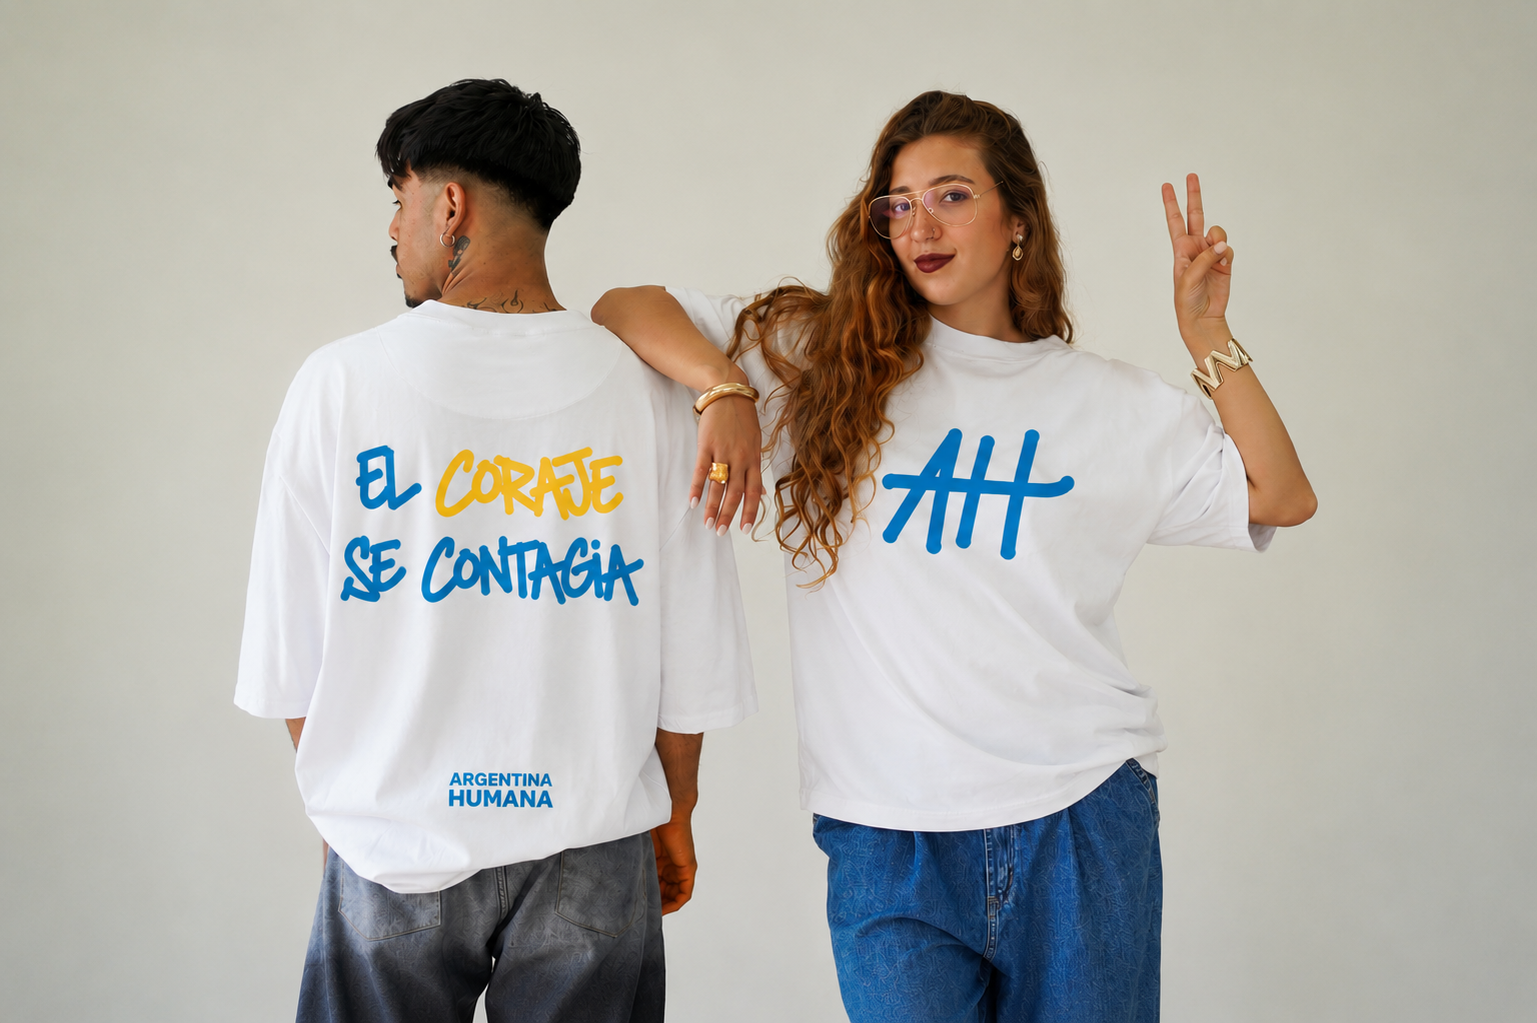
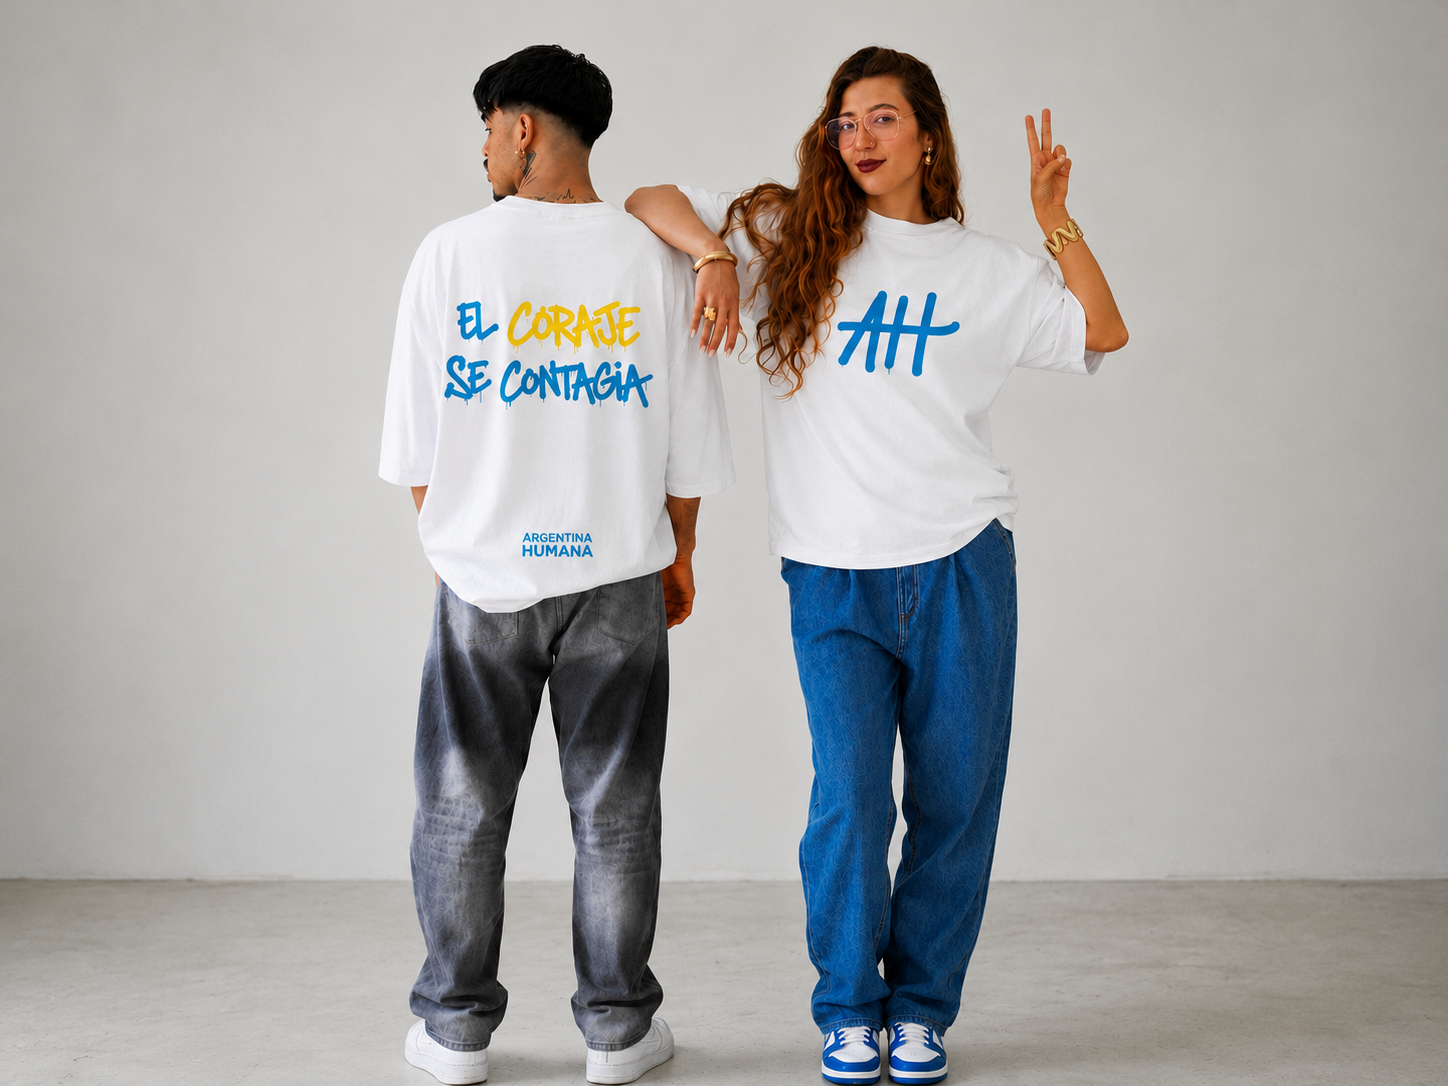
cambios portada y foto de tienda sobre remera AH

diff --git a/src/lib/supabase.ts b/src/lib/supabase.ts
@@ -184,7 +184,7 @@ export const FALLBACK_PRODUCTS: Product[] = [
     slug: 'aritos-alpaca-con-pasador-de-plata',
     price: 15000.00,
     old_price: null,
-    description: 'Arito de alpaca pañuelo de Madres y Abuelas. Símbolo de memoria y auténtico diseño tucumano. Llevá tu identidad con orgullo en Tuc-Humano.',
+    description: 'Aritos "Memoria"\n\nSímbolo de una lucha histórica, estos aritos presentan el emblemático pañuelo de Madres y Abuelas de Plaza de Mayo en alpaca con pasador de plata. Una pieza de diseño con profunda identidad, forjada a mano por el orfebre tucumano Oscar de barrio Ciudadela, que combina destreza técnica con un mensaje de compromiso inquebrantable con la lucha por la memoria e identidad.',
     image_url: '/images/aritosplaza.webp',
     image_back_url: null,
     stock_s: 0, stock_m: 0, stock_l: 0, stock_xl: 0, stock_unico: 60,
@@ -197,12 +197,12 @@ export const FALLBACK_PRODUCTS: Product[] = [
     price: 25000.00,
     old_price: 32000.00,
     description: 'Remera oversize de algodón pesado premium "Argentina Humana" con la frase "El coraje se contagia". Confeccionada con algodón de alta densidad, garantiza durabilidad y una caída perfecta. IMPORTANTE: El talle oversize es amplio. Esta remera se encuentra en PREVENTA.',
-    image_url: '/images/remera-ah-blanca.png',
+    image_url: '/images/remera-argentina-humana-blanca3.png',
     image_back_url: '/images/remera-ah-negra.png',
     stock_s: 20, stock_m: 20, stock_l: 20, stock_xl: 20, stock_unico: 0,
     has_sizes: true, active: true,
     color_variants: [
-      { name: 'Blanco', image_url: '/images/remera-ah-blanca.png' },
+      { name: 'Blanco', image_url: '/images/remera-argentina-humana-blanca3.png' },
       { name: 'Negro', image_url: '/images/remera-ah-negra.png', image_back_url: '/images/remera-ah-negra-espalda.png' }
     ]
   }